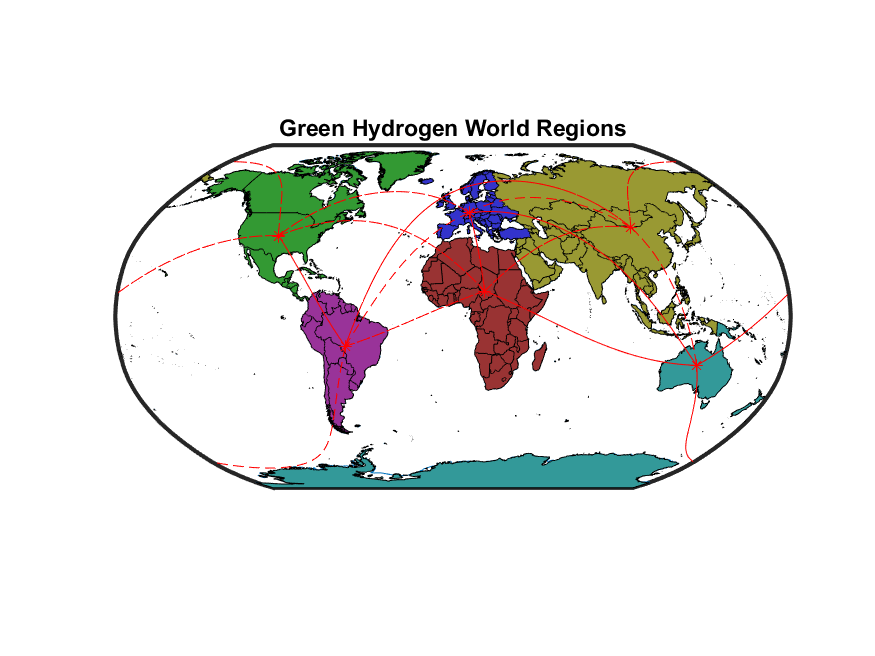
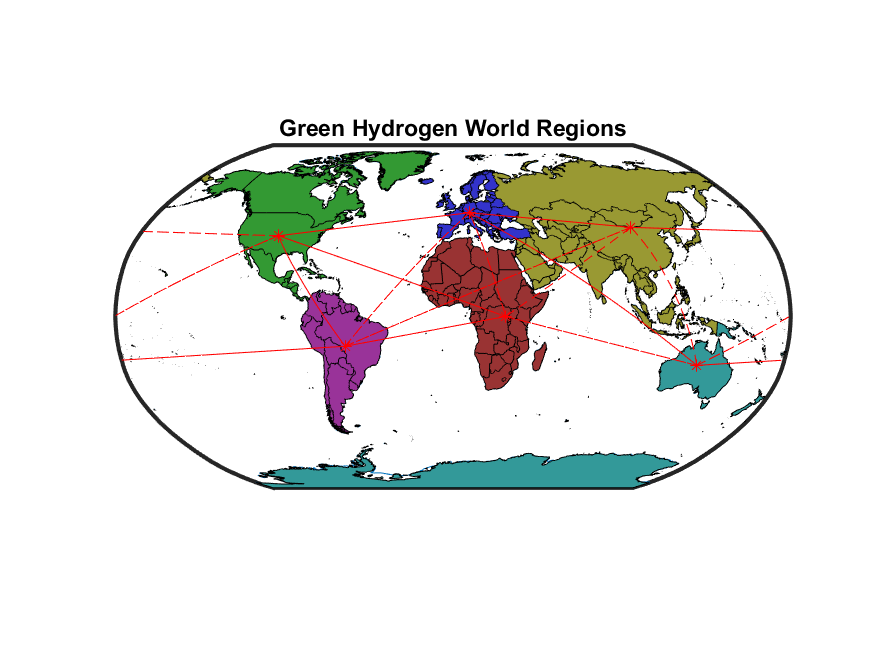
change plotting of lines

diff --git a/Software/world_plots.m b/Software/world_plots.m
@@ -171,8 +171,8 @@ title('Green Hydrogen World Regions')
 
 citylat(1) = -23;
 citylon(1) = 133;
-citylat(2) = 12;
-citylon(2) = 17;
+citylat(2) = 0;
+citylon(2) = 28;
 citylat(3) = 49;
 citylon(3) = 10;
 citylat(4) = 42;
@@ -185,7 +185,7 @@ citylon(6) = -58;
 plotm(citylat,citylon,"r*")
 for x = 1:6
     for y = 1:6
-        [gclat,gclon] = track2("gc",citylat(x),citylon(x),citylat(y),citylon(y));
+        [gclat,gclon] = track2("rh",citylat(x),citylon(x),citylat(y),citylon(y));
         plotm(gclat,gclon,"r--")
     end
 end
